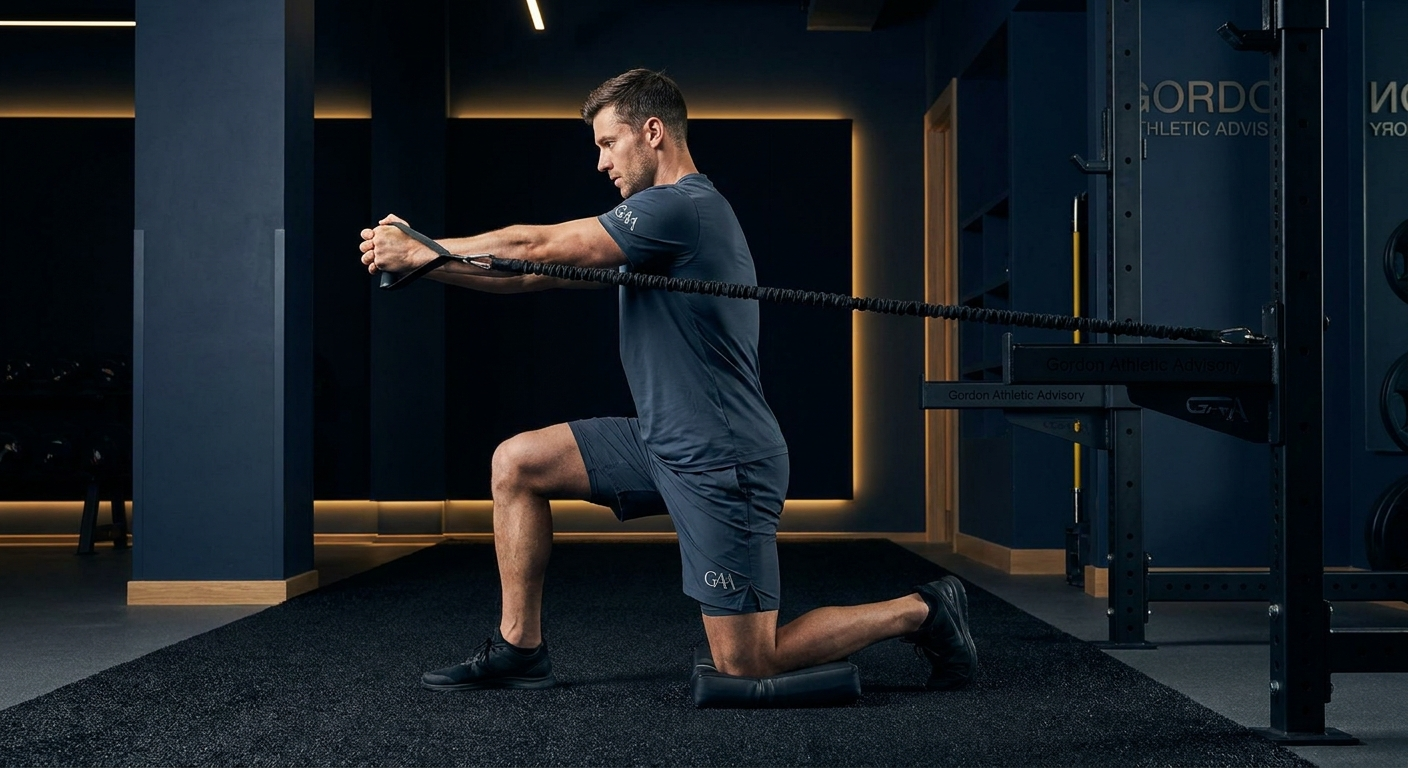
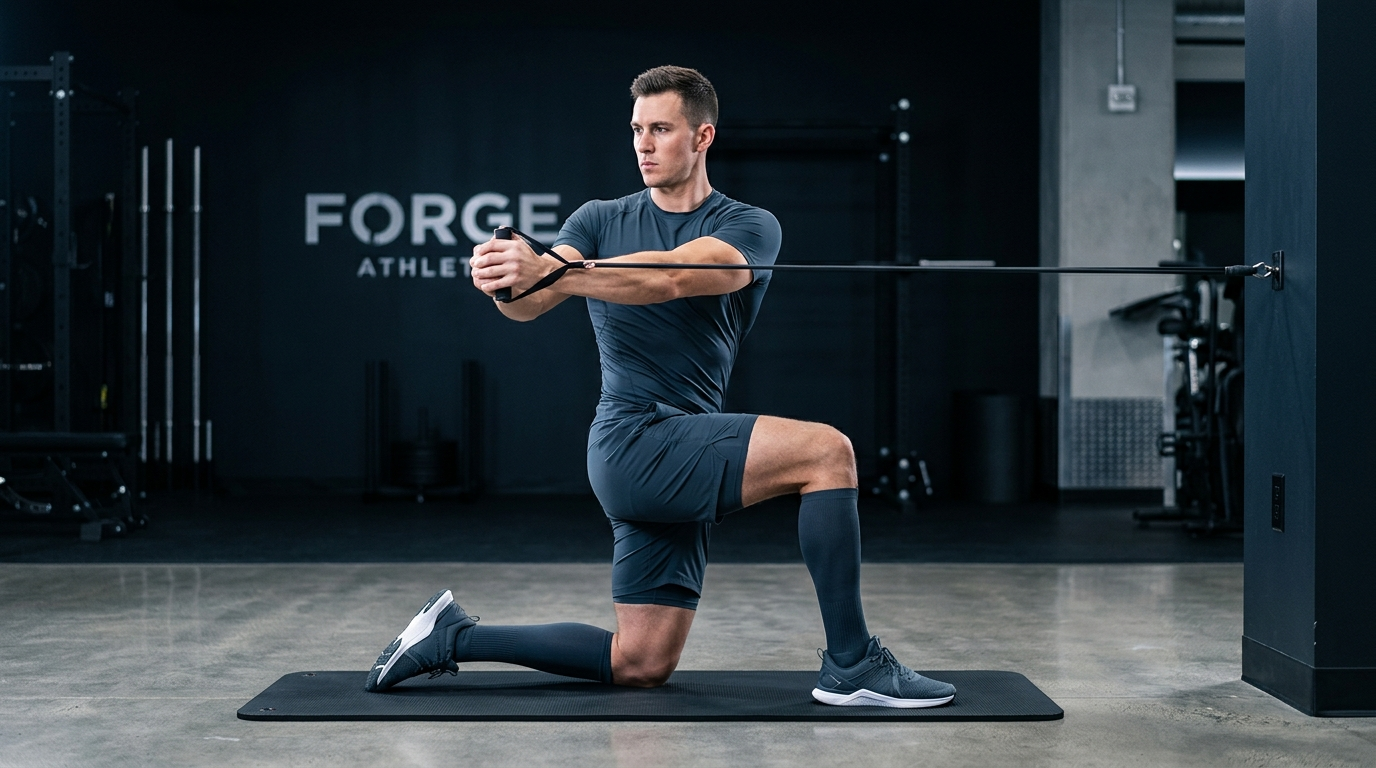
feat(exercise-media): roll out batch 16 Forge Athletic photography for repeat hurdle jumps, staggered push-up, active hip flexor, single-leg scaption, and half-kneeling rotation

diff --git a/lib/nasm-generated-images.ts b/lib/nasm-generated-images.ts
@@ -11,7 +11,7 @@ export const VERIFIED_GAA_EXERCISE_IMAGES: Record<string, string> = {
   "incline push up with rotation": "/images/exercises/incline-push-up-with-rotation.jpg",
   "box jump up with stabilization frontal": "/images/exercises/box-jump-up-with-stabilization.jpg",
   "repeat hurdle jumps transverse": "https://img.youtube.com/vi/Io5gmVqO_sA/hqdefault.jpg",
-  "repeat hurdle jumps": "https://img.youtube.com/vi/til5WR9ko4c/hqdefault.jpg",
+  "repeat hurdle jumps": "/images/exercises/repeat-hurdle-jumps.jpg",
   "repeat tuck jumps": "https://img.youtube.com/vi/KMr7gzm_wf4/hqdefault.jpg",
   "4 point quadruped t drill": "https://img.youtube.com/vi/N7p0Le1WdJE/hqdefault.jpg",
   "tuck jump with stabilization": "/images/exercises/tuck-jump-with-stabilization.jpg",
@@ -25,9 +25,9 @@ export const VERIFIED_GAA_EXERCISE_IMAGES: Record<string, string> = {
   "incline push up": "/images/exercises/incline-push-up.jpg",
   "forward and back band walking": "/images/exercises/forward-and-back-band-walking.jpg",
   "bulgarian split squat": "/images/exercises/bulgarian-split-squat.jpg",
-  "push up with staggered hands": "https://img.youtube.com/vi/miMPlHvDwxc/hqdefault.jpg",
+  "push up with staggered hands": "/images/exercises/push-up-with-staggered-hands.jpg",
   "single leg hop stabilization level 1": "https://img.youtube.com/vi/6BkwOUl3fAw/hqdefault.jpg",
-  "active standing hip flexor": "https://img.youtube.com/vi/VY0FyyIHrPo/hqdefault.jpg",
+  "active standing hip flexor": "/images/exercises/active-standing-hip-flexor.jpg",
   "seated row": "/images/exercises/seated-row.jpg",
   "single leg hop stabilization level 2": "https://img.youtube.com/vi/cps6tCcJNJA/hqdefault.jpg",
   "push up to 3 point stance": "https://img.youtube.com/vi/yvuyGj9g6WQ/hqdefault.jpg",
@@ -44,15 +44,15 @@ export const VERIFIED_GAA_EXERCISE_IMAGES: Record<string, string> = {
   "quadruped arm raise": "https://img.youtube.com/vi/PSytregUBZY/hqdefault.jpg",
   "goblet squat": "/images/exercises/goblet-squat.jpg",
   "kettlebell front squat": "/images/exercises/kettlebell-front-squat.jpg",
-  "single leg scaption": "https://img.youtube.com/vi/PKjDGnwpB_o/hqdefault.jpg",
-  "scaption": "https://img.youtube.com/vi/PKjDGnwpB_o/hqdefault.jpg",
+  "single leg scaption": "/images/exercises/single-leg-scaption.jpg",
+  "scaption": "/images/exercises/single-leg-scaption.jpg",
   "squat to overhead reach": "/images/exercises/squat-to-overhead-reach.jpg",
   "squat to scaption": "/images/exercises/squat-to-overhead-reach.jpg",
   "squat to overhead reach & scaption": "/images/exercises/squat-to-overhead-reach.jpg",
   "squat to overhead reach and scaption": "/images/exercises/squat-to-overhead-reach.jpg",
   "squat to overhead reach scaption": "/images/exercises/squat-to-overhead-reach.jpg",
-  "standing scaption": "https://img.youtube.com/vi/PKjDGnwpB_o/hqdefault.jpg",
-  "dumbbell scaption": "https://img.youtube.com/vi/PKjDGnwpB_o/hqdefault.jpg",
+  "standing scaption": "/images/exercises/single-leg-scaption.jpg",
+  "dumbbell scaption": "/images/exercises/single-leg-scaption.jpg",
   "tuck jump": "/images/exercises/tuck-jump-with-stabilization.jpg",
   "self myofascial release smr hamstrings": "https://img.youtube.com/vi/_M29fhv3LoI/hqdefault.jpg",
   "push up plus": "/images/exercises/push-up-plus.jpg",
@@ -117,7 +117,7 @@ export const VERIFIED_GAA_EXERCISE_IMAGES: Record<string, string> = {
   "clamshells": "/images/exercises/clamshells.jpg",
   "kettlebell overhead press": "/images/exercises/kettlebell-overhead-press.jpg",
   "ball crunch arms crossed": "https://img.youtube.com/vi/5DKvQPbSHUg/hqdefault.jpg",
-  "half kneeling tubing rotation": "https://img.youtube.com/vi/CnF9Bf2pm4s/hqdefault.jpg",
+  "half kneeling tubing rotation": "/images/exercises/half-kneeling-tubing-rotation.jpg",
   "single leg romanian deadlift to pnf pattern 1": "https://img.youtube.com/vi/ZmI4DRACNTg/hqdefault.jpg",
   "push press": "https://img.youtube.com/vi/ODwyDtlXnXk/hqdefault.jpg",
   "dumbbell bent over extention": "https://img.youtube.com/vi/sTkMVkTwcSk/hqdefault.jpg",
@@ -548,6 +548,17 @@ const EXERCISE_ALIAS_MAP: Record<string, string> = {
   'kb overhead press': 'kettlebell overhead press',
   'single arm kettlebell overhead press': 'kettlebell overhead press',
   'continuous squat jumps': 'repeat squat jumps',
+  'hurdle jumps': 'repeat hurdle jumps',
+  'repeat hurdle jump': 'repeat hurdle jumps',
+  'staggered push up': 'push up with staggered hands',
+  'staggered hand push up': 'push up with staggered hands',
+  'staggered hands push up': 'push up with staggered hands',
+  'active standing hip flexor stretch': 'active standing hip flexor',
+  'single leg dumbbell scaption': 'single leg scaption',
+  'single-leg scaption': 'single leg scaption',
+  'half kneeling rotation': 'half kneeling tubing rotation',
+  'half kneeling cable rotation': 'half kneeling tubing rotation',
+  'half-kneeling tubing rotation': 'half kneeling tubing rotation',
 }
 
 const GAA_IMAGE_CACHE = new Map<string, string | null>()

diff --git a/lib/nasm-clinical-movement-cards.test.ts b/lib/nasm-clinical-movement-cards.test.ts
@@ -135,7 +135,7 @@ describe('NASM Clinical Movement Cards Engine — Strict Official Media Rules', 
     // 3. Bilateral / Standard Scaption
     const scaption = getNasmClinicalMovementCard('Scaption')
     expect(scaption.hasOfficialMedia).toBe(true)
-    expect(scaption.imageUrl).toBe('https://img.youtube.com/vi/PKjDGnwpB_o/hqdefault.jpg')
+    expect(scaption.imageUrl).toBe('/images/exercises/single-leg-scaption.jpg')
     expect(scaption.videoUrl).toContain('PKjDGnwpB_o')
     expect(scaption.embedUrl).toContain('PKjDGnwpB_o')
     expect(scaption.clinicalCues.some(cue => cue.includes('scapular plane'))).toBe(true)
@@ -143,7 +143,7 @@ describe('NASM Clinical Movement Cards Engine — Strict Official Media Rules', 
     // 4. Single-Leg Scaption (Core Stabilization Phase 1)
     const singleLegScaption = getNasmClinicalMovementCard('Single-Leg Scaption')
     expect(singleLegScaption.hasOfficialMedia).toBe(true)
-    expect(singleLegScaption.imageUrl).toBe('https://img.youtube.com/vi/PKjDGnwpB_o/hqdefault.jpg')
+    expect(singleLegScaption.imageUrl).toBe('/images/exercises/single-leg-scaption.jpg')
     expect(singleLegScaption.videoUrl).toContain('PKjDGnwpB_o')
     expect(singleLegScaption.embedUrl).toContain('PKjDGnwpB_o')
 
